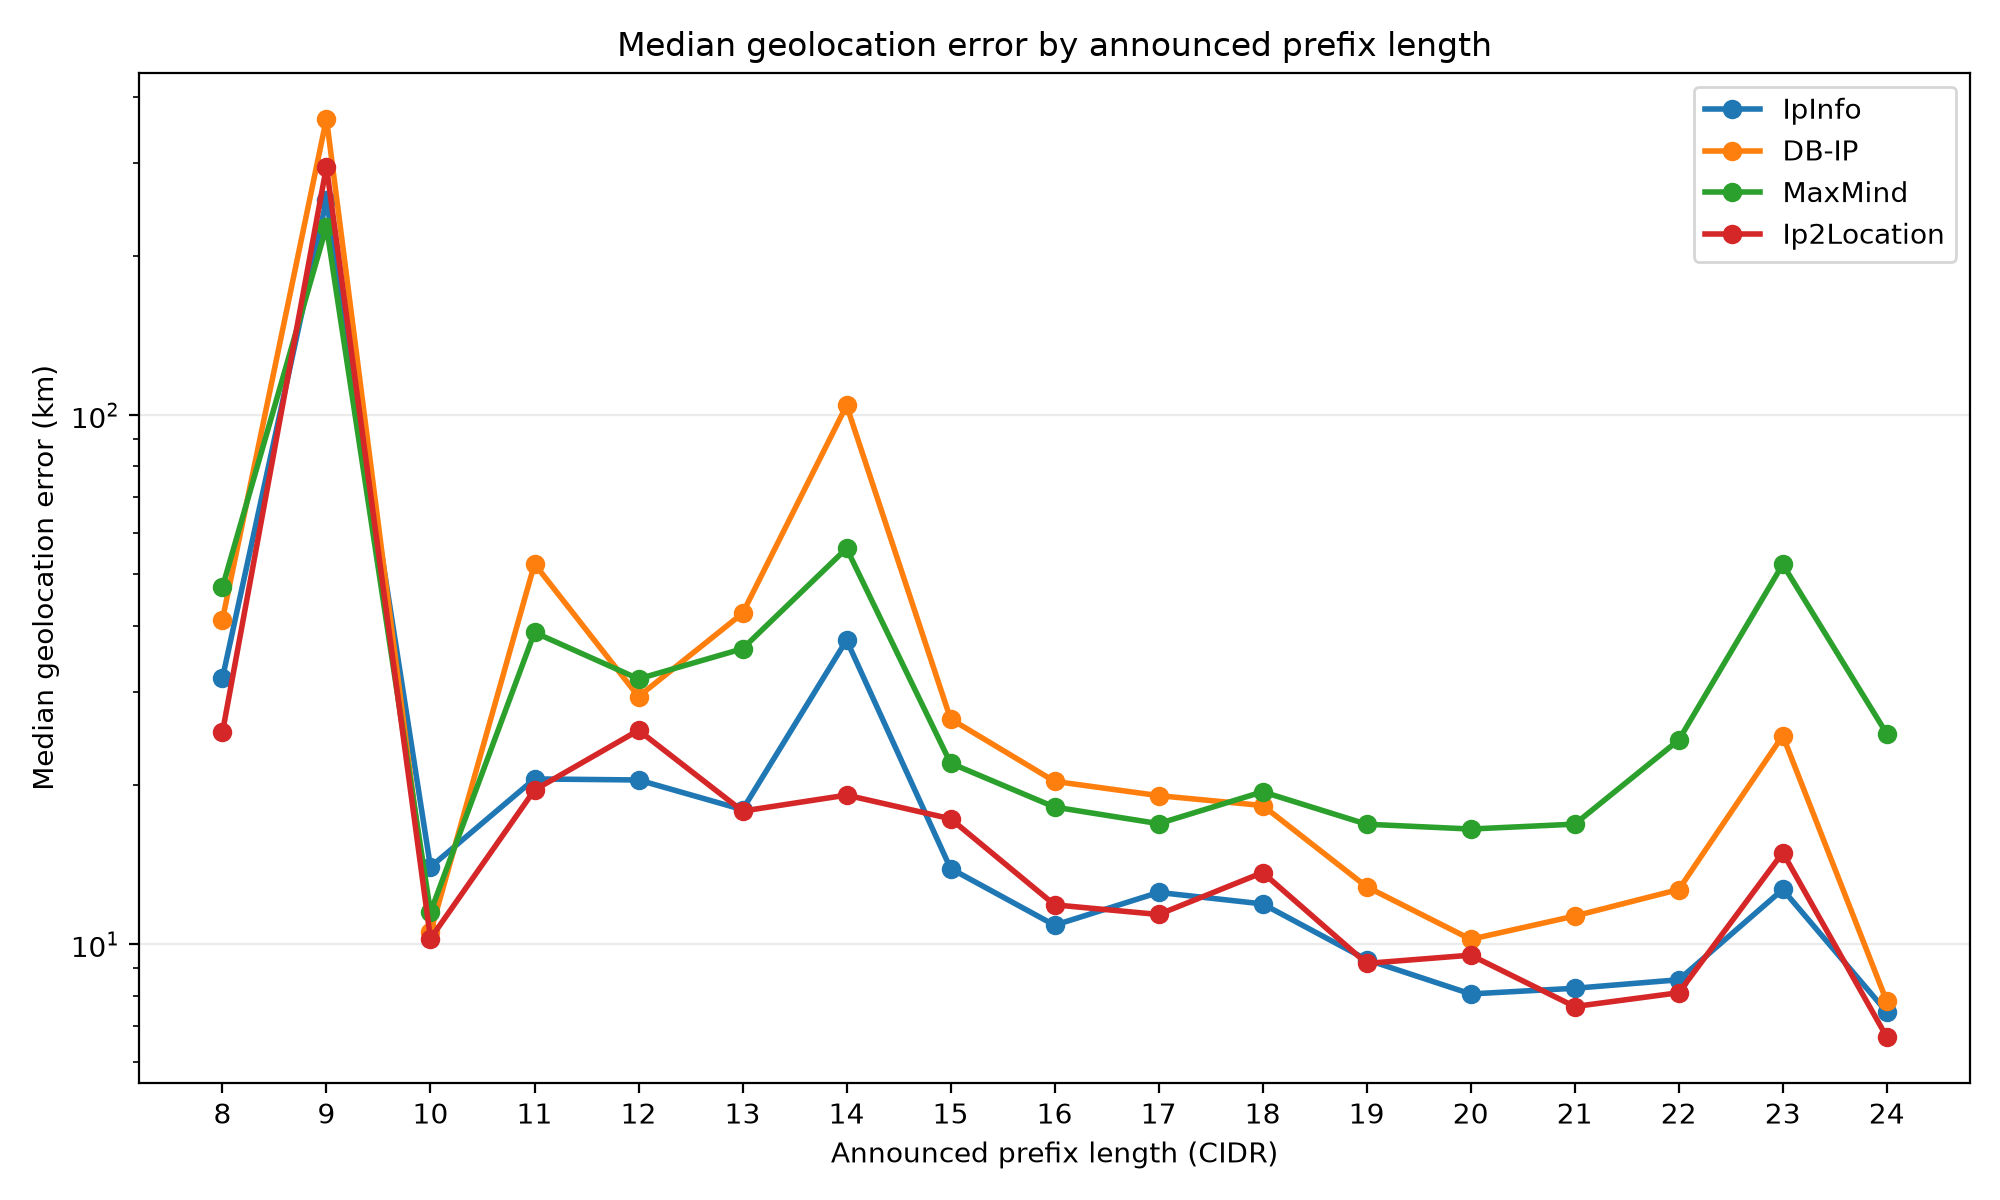
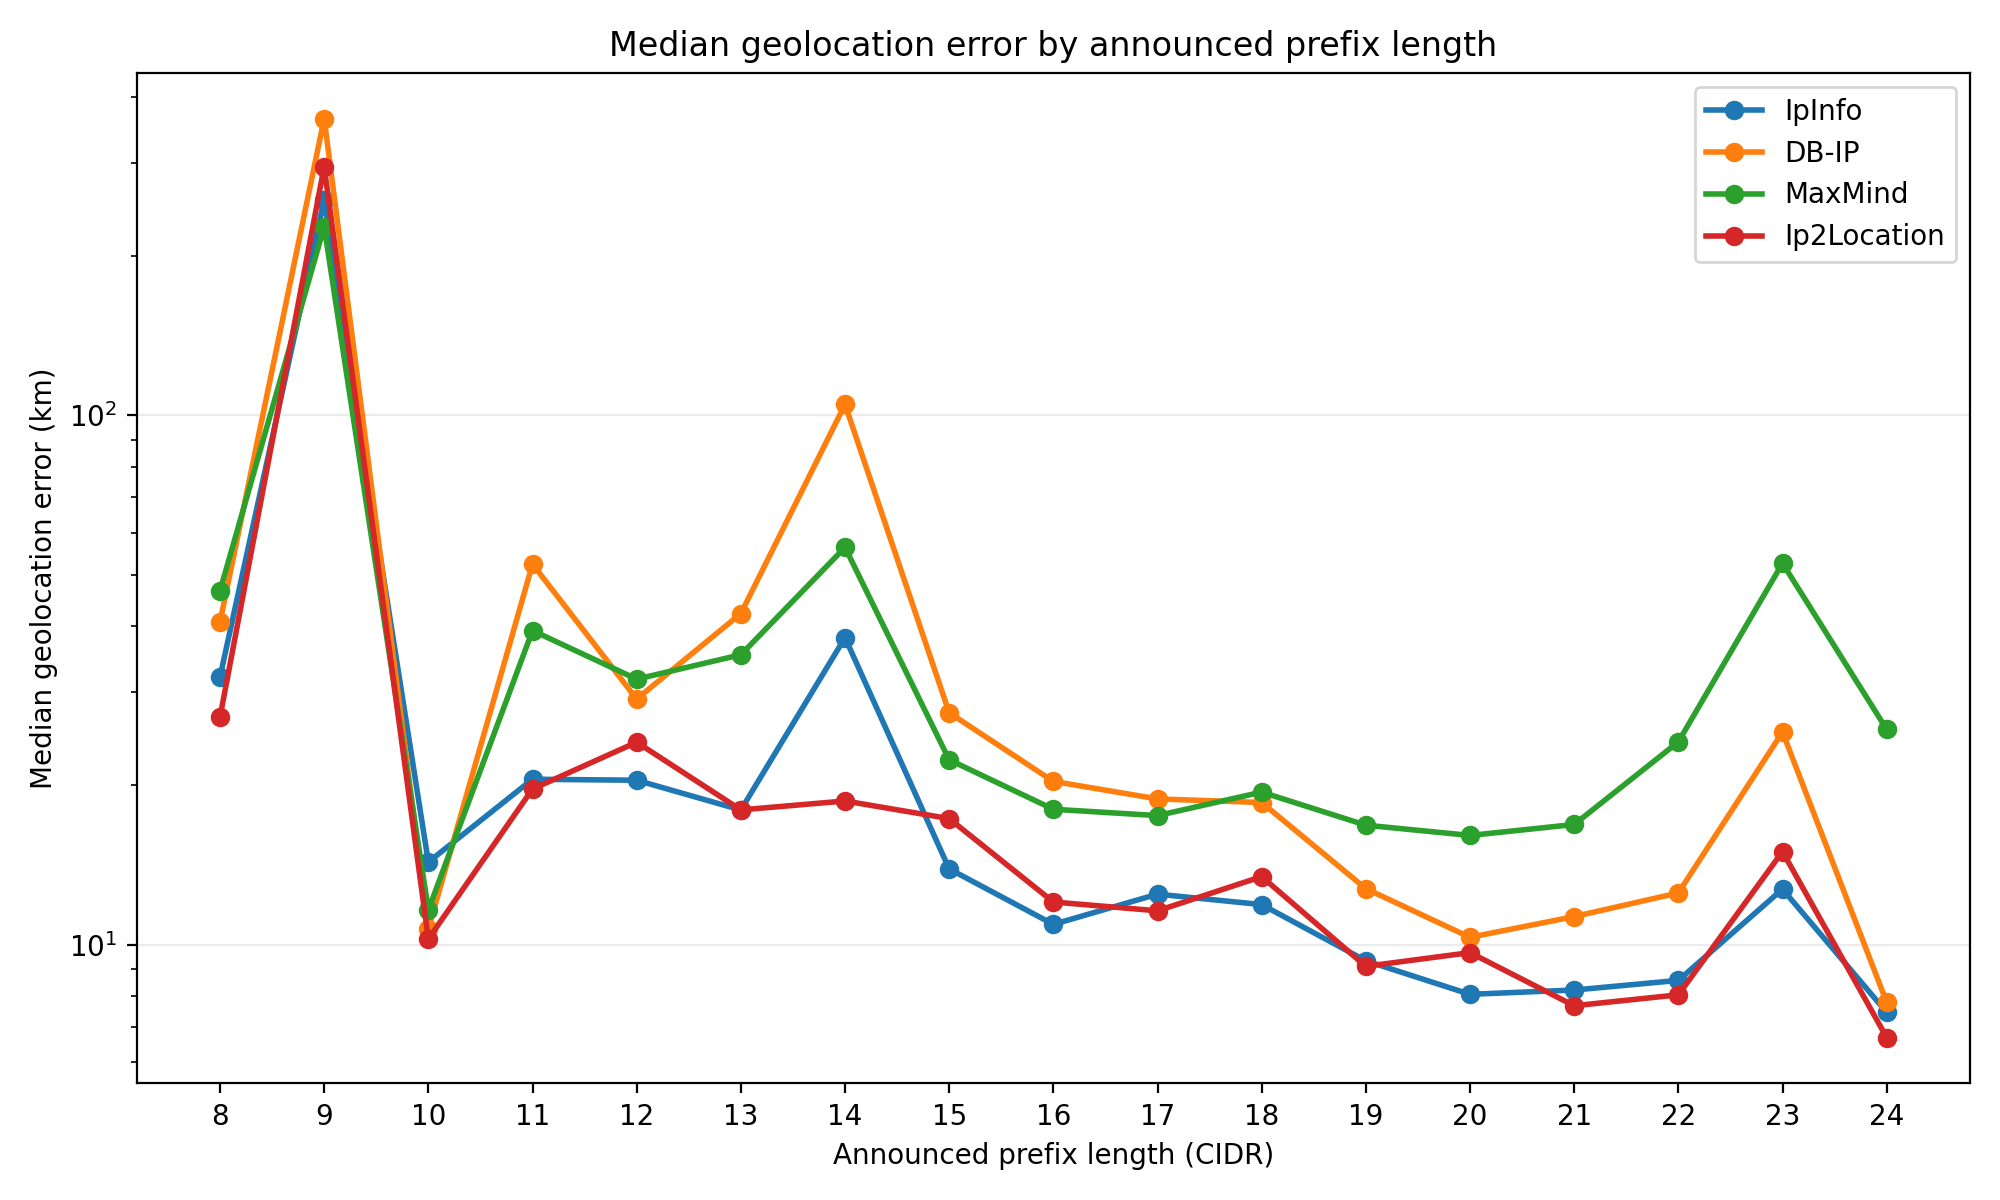
Update build log

diff --git a/buildlog.md b/buildlog.md
@@ -1,14 +1,9 @@
 ### Sep 16, 2026
 Wrote a function to get the probes from the RIPE Atlas REST API
-
 Implement an overarching ip lookup interface to create adapters for MaxMind, ...
-
 Implemented IP lookup for MaxMind
-
 Implemented error and CDF (interesting to note that the MaxMind ip seems to have a default if it can't locate the address: (37.751, -97.822))
-
 Put the results in a Pandas dataframe so it would be easy to plot based on continent, fixed vs mobile
-
 Graphed the CDF error plots on a single plot so it is easier to visualize against each other
 
 ### Sep 19, 2026
@@ -29,4 +24,4 @@ Augment the RIPE Atlas probe retrieval with fixed vs mobile IP information from 
 It is difficult to determine what is fixed vs mobile so we take a lot smaller sample to make sure the values are correct (e.g. only use T-Mobile)
 
 ### Oct 4, 2026
-Determine fixed vs mobile IPs with the tags from the RIPE Atlas databse to give us more datapoints
+Determine fixed vs mobile IPs with the tags from the RIPE Atlas databse to give us more datapoints. The resulting graph gives the same patterns so I believe it is accurate. 
